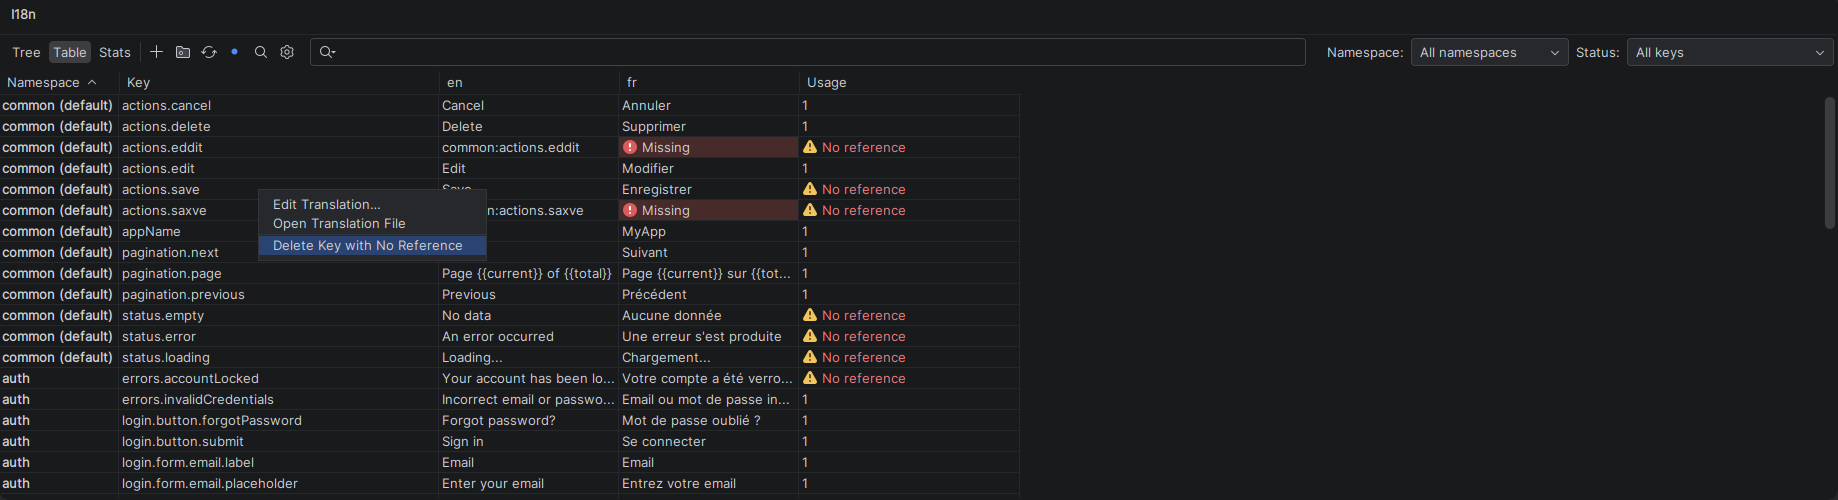
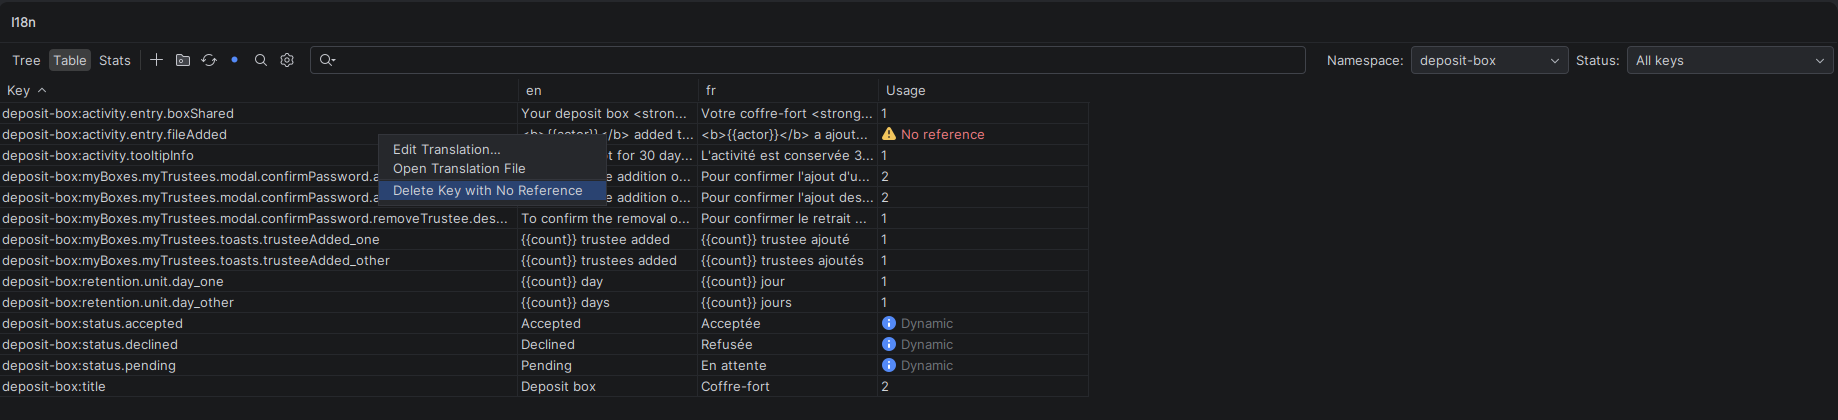
docs(readme): show the Dynamic usage state in the keys-with-no-reference screenshot (#683)

diff --git a/docs/SCREENSHOTS_CHECKLIST.md b/docs/SCREENSHOTS_CHECKLIST.md
@@ -32,7 +32,7 @@ Vues *Tree / Table / Stats* dans la barre d'outils (#669), libellés et sous-pag
 | `toolwindow-tree.png` | groupes de namespace dépliés (`common`, `auth`, `dashboard`), badges `EN✓ FR✓`, légende |
 | `toolwindow-table.png` | colonne Namespace avec `common (default)`, deux cellules *Missing*, en-tête *Usage (not counted)* |
 | `toolwindow-table-namespace-filter.png` | combo *All namespaces* déroulée, `common (default)` en tête |
-| `toolwindow-table-orphans.png` | après **Count Key Usages** : colonne Usage remplie, menu ouvert sur *Delete Key with No Reference* (l'exemple n'a pas de clé *Dynamic*) |
+| `toolwindow-table-orphans.png` | filtre `deposit-box`, après **Count Key Usages** : ligne *No reference* (`activity.entry.fileAdded`) avec le menu ouvert sur *Delete Key with No Reference*, lignes *Dynamic* `status.*` (appel `` t(`deposit-box:status.${status}`) ``) |
 | `toolwindow-stats.png` | matrice Namespace × locale, ligne Total, `common (default)`, barres vertes/orange |
 | `toolwindow-stats-popup.png` | popup `common (default) — 'fr': 2 missing, 0 empty` sous la cellule (titre tronqué par la popup) |
 | `toolwindow-create-translation.png` | dialogue *Create Translation* rempli (clé vérifiée, chemins, *Copy Reference to Empty Locales*) |
